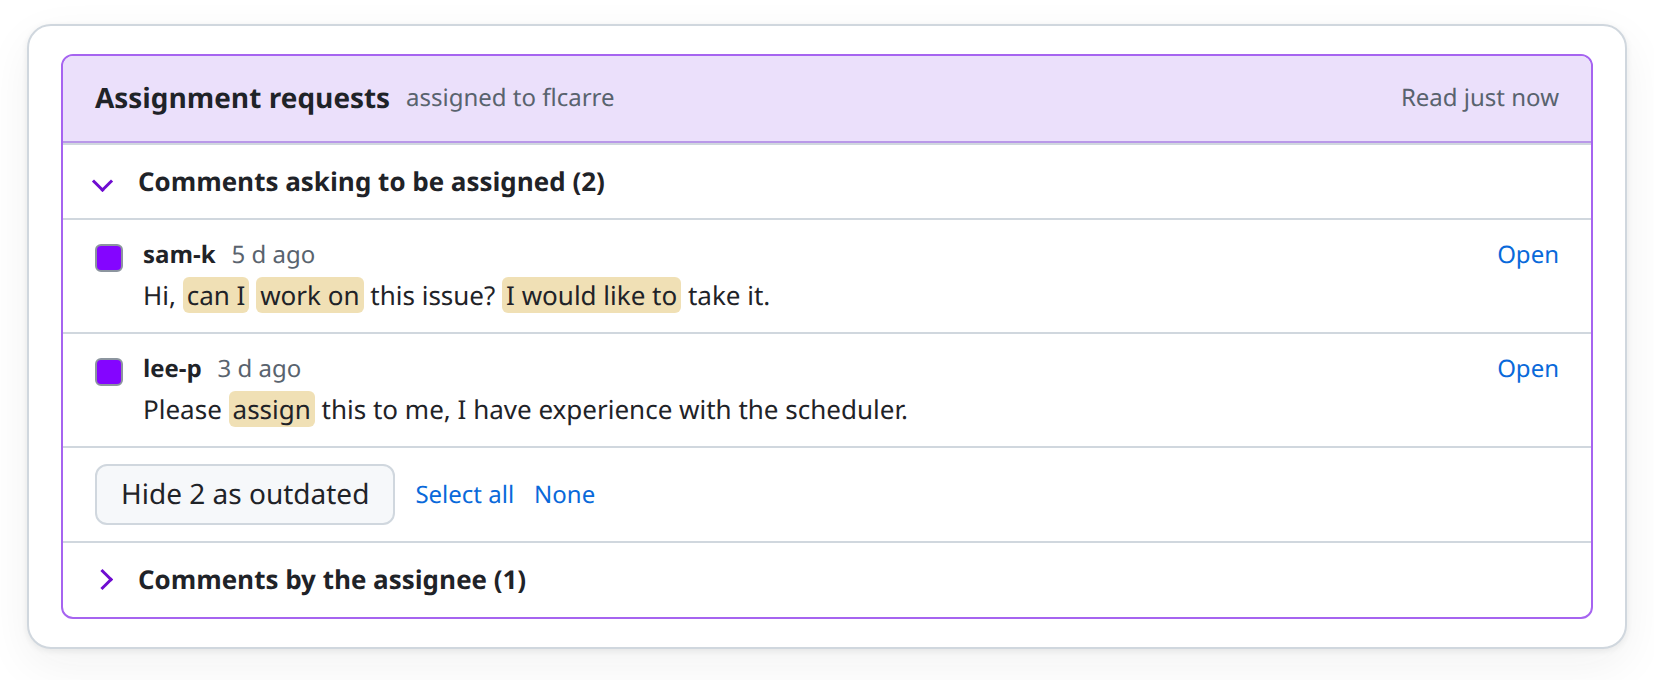
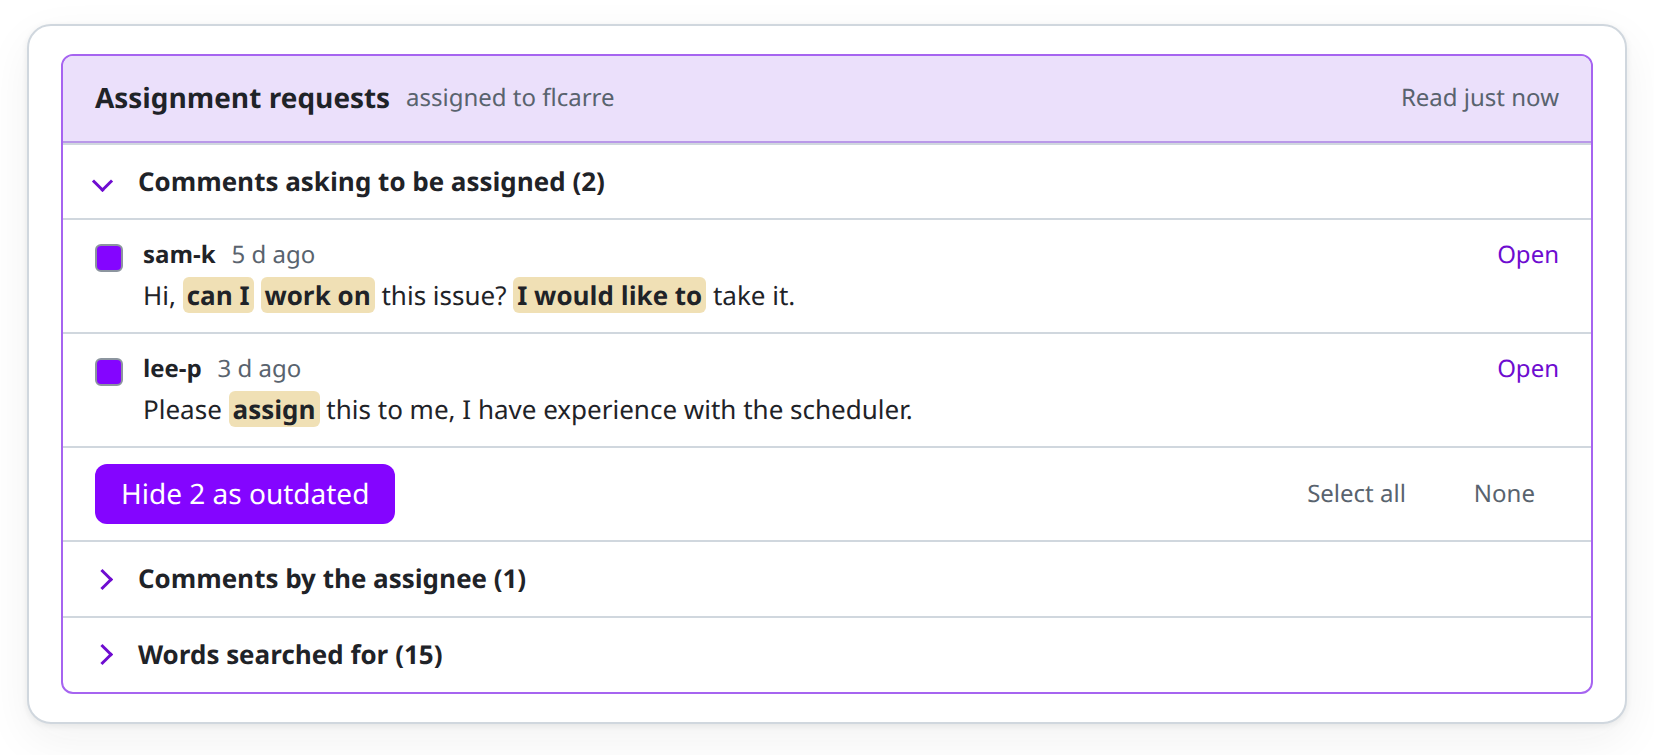
fix(assignments): bold only the found words, list the words searched for and restyle the box and its buttons (#43)
GitHub styles a label in bold, so the whole preview of a comment came
out bold, nothing said which words were being looked for, and the action
bar ran a faint button, two links and a note together on one line.

- Set the preview text in the normal weight and make only the found
words bold, on their soft highlight
- Add a closed Words searched for list with the words in use and a link
that opens the extension's settings to change them
- Colour the box's links and ticks in the organization's colour where it
has one, like the profile panel and the contributor card
- Style the action bar's buttons in GitHub's small button style, a
filled one in the organization's colour for the action, plain ones for
Select all and None and a red filled one for Confirm, with the note on
its own line
- Say Tick the comments to hide as outdated instead of offering Hide 0
when nothing is ticked
- Update the site mock-up and example images, the README and the
changelog

diff --git a/content.js b/content.js
@@ -1910,41 +1910,46 @@
 
       const bar = document.createElement("div");
       bar.className = "gsf-assign-bar";
+      const actions = document.createElement("div");
+      actions.className = "gsf-assign-actions";
       const chosen = hideable.filter((c) => state.chosen.has(c.id));
-      if (!hideable.length && !state.hidden.size) {
-        const note = document.createElement("span");
+      const say = (text) => {
+        const note = document.createElement("div");
         note.className = "gsf-assign-note";
-        note.textContent = "You cannot hide comments in this repository.";
-        bar.append(note);
+        note.textContent = text;
+        return note;
+      };
+      if (!hideable.length && !state.hidden.size) {
+        actions.append(say("You cannot hide comments in this repository."));
       } else if (state.confirming) {
-        const ask = document.createElement("span");
-        ask.className = "gsf-assign-note";
-        ask.textContent = `Mark ${chosen.length} comment${chosen.length === 1 ? "" : "s"} as outdated on GitHub?`;
-        bar.append(ask,
+        actions.append(
+          say(`Mark ${chosen.length} comment${chosen.length === 1 ? "" : "s"} as outdated on GitHub?`),
           assignButton("Confirm", () => assignHide(panel, info, entry, state, chosen), "gsf-assign-button gsf-assign-danger"),
-          assignButton("Cancel", () => { state.confirming = false; assignRender(panel, info, entry); }));
+          assignButton("Cancel", () => { state.confirming = false; assignRender(panel, info, entry); }, "gsf-assign-button"));
       } else {
         if (hideable.length) {
-          bar.append(
-            assignButton(`Hide ${chosen.length} as outdated`, () => {
-              if (!chosen.length) { state.note = "Tick at least one comment."; assignRender(panel, info, entry); return; }
+          // With nothing ticked there is nothing to press, so the bar says what to do instead of offering Hide 0.
+          if (chosen.length) {
+            actions.append(assignButton(`Hide ${chosen.length} as outdated`, () => {
               state.confirming = true;
               state.note = "";
               assignRender(panel, info, entry);
-            }),
-            assignButton("Select all", () => { hideable.forEach((c) => state.chosen.add(c.id)); assignRender(panel, info, entry); }, "gsf-assign-link"),
-            assignButton("None", () => { state.chosen.clear(); assignRender(panel, info, entry); }, "gsf-assign-link"));
+            }, "gsf-assign-button gsf-assign-primary"));
+          } else {
+            actions.append(say("Tick the comments to hide as outdated."));
+          }
+          const spacer = document.createElement("span");
+          spacer.className = "gsf-assign-spacer";
+          actions.append(spacer,
+            assignButton("Select all", () => { hideable.forEach((c) => state.chosen.add(c.id)); assignRender(panel, info, entry); }, "gsf-assign-button gsf-assign-ghost"),
+            assignButton("None", () => { state.chosen.clear(); assignRender(panel, info, entry); }, "gsf-assign-button gsf-assign-ghost"));
         }
         if (state.last.length) {
-          bar.append(assignButton("Undo", () => assignUndo(panel, info, entry, state), "gsf-assign-link"));
+          actions.append(assignButton("Undo", () => assignUndo(panel, info, entry, state), "gsf-assign-button"));
         }
       }
-      if (state.note) {
-        const note = document.createElement("span");
-        note.className = "gsf-assign-note";
-        note.textContent = state.note;
-        bar.append(note);
-      }
+      bar.append(actions);
+      if (state.note) bar.append(say(state.note));
       box.append(bar);
       panel.append(box);
     }
@@ -1976,6 +1981,33 @@
       box.append(list);
       panel.append(box);
     }
+
+    panel.append(assignWordsBox());
+  }
+
+  // Which words are being looked for, read-only, with the way to change them: the extension's settings page.
+  function assignWordsBox() {
+    const words = assignWordList();
+    const box = assignAccordion(`Words searched for (${words.length})`, false);
+    const body = document.createElement("div");
+    body.className = "gsf-assign-words";
+    const list = document.createElement("div");
+    list.className = "gsf-assign-wordlist";
+    for (const word of words) {
+      const tag = document.createElement("span");
+      tag.className = "gsf-assign-word";
+      tag.textContent = word;
+      list.append(tag);
+    }
+    const note = document.createElement("div");
+    note.className = "gsf-assign-note";
+    note.append("A comment is offered when it contains one of these. A single word also matches what it starts. ",
+      assignButton("Edit the list in the extension settings", () => {
+        api.runtime.sendMessage({ type: "openOptions" }).catch(() => {});
+      }, "gsf-assign-link"));
+    body.append(list, note);
+    box.append(body);
+    return box;
   }
 
   // Marks the chosen comments as outdated, after the person confirmed. GitHub shows them collapsed on the next load.

diff --git a/docs/index.html b/docs/index.html
@@ -385,13 +385,14 @@
     .mock-assign .ar i { width: 14px; height: 14px; margin-top: 4px; border: 1px solid var(--border-strong); border-radius: 3px; background: var(--b); flex: none; }
     .mock-assign .am { display: flex; gap: 8px; align-items: baseline; font-size: 12px; color: var(--fg-muted); }
     .mock-assign .am b { color: var(--fg); font-weight: 600; }
-    .mock-assign .am a { margin-left: auto; color: var(--accent); }
+    .mock-assign .am a { margin-left: auto; color: var(--ink); }
     .mock-assign .ap { font-size: 13px; }
-    .mock-assign mark { padding: 0 2px; border-radius: 3px; background: rgba(212,167,44,.35); color: inherit; }
+    .mock-assign mark { padding: 0 2px; border-radius: 3px; background: rgba(212,167,44,.35); color: inherit; font-weight: 700; }
     .mock-assign .bar { display: flex; align-items: center; gap: 10px; padding: 8px 16px; border-top: 1px solid var(--border); font-size: 12px; }
-    .mock-assign .btn { padding: 3px 12px; border: 1px solid var(--border); border-radius: 6px; background: var(--bg-muted); font-weight: 500; }
-    .mock-assign .bar a { color: var(--accent); }
-    .mock-omni { padding: 8px 0; overflow: hidden; }
+    .mock-assign .btn { padding: 4px 12px; border: 1px solid transparent; border-radius: 6px; background: var(--b); color: #fff; font-weight: 500; line-height: 20px; }
+    .mock-assign .ghost { padding: 4px 12px; border-radius: 6px; color: var(--fg-muted); font-weight: 500; line-height: 20px; }
+    .mock-assign .sp { flex: 1; }
+        .mock-omni { padding: 8px 0; overflow: hidden; }
     .mock-omni .bar { display: flex; align-items: center; gap: 10px; margin: 0 8px 6px; padding: 7px 12px; border-radius: 9999px; background: var(--bg-muted); font-size: 14px; }
     .mock-omni .kw { padding: 2px 10px; border-radius: 9999px; background: var(--info-bg); color: var(--accent); font-size: 12.5px; font-weight: 600; white-space: nowrap; }
     .mock-omni .caret { width: 1px; height: 17px; margin-left: -8px; background: var(--fg); }
@@ -639,11 +640,12 @@
           <div class="wk"><div class="acc">Comments asking to be assigned (2)</div><div class="wl">
             <div class="ar"><i></i><div><div class="am"><b>sam-k</b><span>5 d ago</span><a>Open</a></div><div class="ap">Hi, <mark>can I</mark> <mark>work on</mark> this issue? <mark>I would like to</mark> take it.</div></div></div>
             <div class="ar"><i></i><div><div class="am"><b>lee-p</b><span>3 d ago</span><a>Open</a></div><div class="ap">Please <mark>assign</mark> this to me, I have experience with the scheduler.</div></div></div>
-          </div><div class="bar"><span class="btn">Hide 2 as outdated</span><a>Select all</a><a>None</a></div></div>
+          </div><div class="bar"><span class="btn">Hide 2 as outdated</span><span class="sp"></span><span class="ghost">Select all</span><span class="ghost">None</span></div></div>
           <div class="wk"><div class="acc shut">Comments by the assignee (1)</div></div>
+          <div class="wk"><div class="acc shut">Words searched for (15)</div></div>
         </div>
       </div>
-      <p class="example-caption">Highlighted words show why each comment was picked. Nothing is hidden until you confirm.</p>
+      <p class="example-caption">Only the words that were found are bold, on a soft highlight. A closed list says which words are searched for and links to the settings where they can be changed. Nothing is hidden until you confirm.</p>
 
       <h3 style="margin-top:28px">Address bar search</h3>
       <p class="muted" style="font-size:14px">Type <code>@gh</code> and a space in the address bar, then a shortcut and a few words. The first row searches GitHub with them, the others open a match directly. Each issue and pull request carries its state, author and last update, each repository its description and last push.</p>

diff --git a/content.css b/content.css
@@ -1251,6 +1251,7 @@ div:has(> .gsf-progress) {
   align-items: flex-start;
   gap: 10px;
   padding: 8px 16px;
+  font-weight: 400;
   color: inherit !important;
   text-decoration: none !important;
   cursor: pointer;
@@ -1267,6 +1268,7 @@ div:has(> .gsf-progress) {
 .gsf-assign-row input {
   flex: none;
   margin: 4px 0 0;
+  accent-color: var(--gsf-brand, var(--fgColor-accent));
 }
 .gsf-assign-text {
   min-width: 0;
@@ -1293,24 +1295,36 @@ div:has(> .gsf-progress) {
 }
 .gsf-assign-preview {
   font-size: 13px;
+  font-weight: 400;
   overflow-wrap: anywhere;
 }
+/* Only the word that was found is bold, on a soft highlight. */
 .gsf-assign-mark {
   padding: 0 2px;
   border-radius: 3px;
   background: var(--bgColor-attention-muted, rgba(212, 167, 44, 0.3));
   color: inherit;
+  font-weight: 700;
 }
 .gsf-assign-bar {
   display: flex;
-  align-items: center;
-  flex-wrap: wrap;
-  gap: 10px;
-  padding: 8px 16px;
+  flex-direction: column;
+  gap: 6px;
+  padding: 10px 16px;
   border-top: 1px solid var(--borderColor-default);
 }
+.gsf-assign-actions {
+  display: flex;
+  align-items: center;
+  flex-wrap: wrap;
+  gap: 8px;
+}
+.gsf-assign-spacer {
+  flex: 1;
+}
+/* Buttons in GitHub's own small button style: a neutral one, a filled one for the action, a plain one for the rest. */
 .gsf-assign-button {
-  padding: 3px 12px;
+  padding: 4px 12px;
   border: 1px solid var(--borderColor-default);
   border-radius: 6px;
   background: var(--bgColor-muted);
@@ -1318,15 +1332,41 @@ div:has(> .gsf-progress) {
   font: inherit;
   font-size: 12px;
   font-weight: 500;
+  line-height: 20px;
   cursor: pointer;
+  transition: background 0.1s, border-color 0.1s;
 }
 .gsf-assign-button:hover {
   border-color: var(--fgColor-muted);
+  background: var(--bgColor-neutral-muted);
+}
+.gsf-assign-primary {
+  border-color: transparent;
+  background: var(--gsf-brand, var(--bgColor-accent-emphasis, #0969da));
+  color: #fff;
+}
+.gsf-assign-primary:hover {
+  border-color: transparent;
+  background: color-mix(in srgb, var(--gsf-brand, var(--bgColor-accent-emphasis, #0969da)) 88%, #000);
+}
+.gsf-assign-ghost {
+  border-color: transparent;
+  background: none;
+  color: var(--fgColor-muted);
+}
+.gsf-assign-ghost:hover {
+  border-color: transparent;
+  background: var(--bgColor-neutral-muted);
+  color: var(--fgColor-default);
 }
 .gsf-assign-danger {
-  border-color: var(--borderColor-danger-emphasis, var(--fgColor-danger));
-  background: var(--bgColor-danger-muted);
-  color: var(--fgColor-danger);
+  border-color: transparent;
+  background: var(--bgColor-danger-emphasis, #cf222e);
+  color: #fff;
+}
+.gsf-assign-danger:hover {
+  border-color: transparent;
+  background: color-mix(in srgb, var(--bgColor-danger-emphasis, #cf222e) 88%, #000);
 }
 .gsf-assign-link {
   padding: 0;
@@ -1342,5 +1382,31 @@ div:has(> .gsf-progress) {
 }
 .gsf-assign-note {
   font-size: 12px;
+  color: var(--fgColor-muted);
+}
+.gsf-assign[data-brand] .gsf-assign-meta a,
+.gsf-assign[data-brand] .gsf-assign-link,
+.gsf-assign[data-brand] .gsf-assign-ghost:hover {
+  color: var(--gsf-ink) !important;
+}
+.gsf-assign[data-brand] .gsf-profile-title {
+  color: var(--fgColor-default) !important;
+}
+.gsf-assign-words {
+  padding: 10px 16px 12px;
+  border-top: 1px solid var(--borderColor-muted);
+}
+.gsf-assign-wordlist {
+  display: flex;
+  flex-wrap: wrap;
+  gap: 6px;
+  margin-bottom: 10px;
+}
+.gsf-assign-word {
+  padding: 0 8px;
+  border: 1px solid var(--borderColor-default);
+  border-radius: 9999px;
+  font-size: 12px;
+  line-height: 20px;
   color: var(--fgColor-muted);
 }

diff --git a/README.md b/README.md
@@ -242,6 +242,7 @@ Each person and organization is read once, in one request, when the profile open
 An issue that has been picked up still collects comments of the "can I work on this?" kind, which then sit between the real discussion. With **Assignment requests** on, the **Contributors** tab, a box appears above the conversation of an issue that has an assignee and something to show.
 
 - **Comments asking to be assigned** lists the comments of other people that contain one of your words, oldest first, each with a preview in which the matching words are highlighted, its author and age, and a link to the comment. Every one starts ticked; untick any that is a real comment. The words are a list of tags, starting from these defaults, that you add to with an input, remove from with the cross on a tag, or reset: `assign`, `work on`, `working on`, `take this`, `pick this`, `pick up`, `can i`, `may i`, `i'd like to`, `i would like to`, `i want to`, `let me`, `contribute`, `claim` and `interested`. A single word also matches what it starts, so `assign` finds assigned, while a phrase matches as written.
+- **Words searched for** is a third list, closed at first, with the words in use and a link that opens the extension's settings to change them.
 - **Comments by the assignee** is a second list, closed at first, with what the people the issue is assigned to wrote, so you can see where it stands.
 - **Hide N as outdated** asks for a confirmation that names the count, then marks the ticked comments as outdated, which is GitHub's own Hide, Outdated, and an **Undo** brings the last batch back. GitHub shows the comments collapsed on the next load.
 

diff --git a/CHANGELOG.md b/CHANGELOG.md
@@ -6,6 +6,7 @@ All notable changes to this project are documented here. The format follows [Kee
 
 ### Added
 
+- In the assignment requests box only the words that were found are bold, a closed **Words searched for** list shows the words in use with a link to the extension's settings, and the box follows the style of the profile panel and the contributor card.
 - The words that mark an assignment request are a list of tags, starting from a default list: type a word or phrase and press Enter to add it, press the cross on a tag to remove it, or reset to the defaults. The token guidance now names `Pull requests: Read-only` for the pull request counts, and write access for hiding comments.
 - **Assignment requests**: a box above the conversation of an assigned issue, off by default, listing the comments of other people that contain one of your words, `assign`, `work on`, `can i` and so on, with the words highlighted in a preview, and apart from it a closed list of what the assignee wrote. Tick the ones that are no longer wanted and mark them as outdated on GitHub, after a confirmation, with an Undo. Only comments of up to 400 characters are offered, and your own, the assignee's and hidden ones are left out. It needs a token with write access to hide comments. Set on the Contributors tab.
 - Where the contributor button says Member, GitHub's own Member or Owner label at the right of the comment header is hidden, so it is not said twice. The Contributor and First-time contributor labels stay, and the label comes back when the button is switched off.
